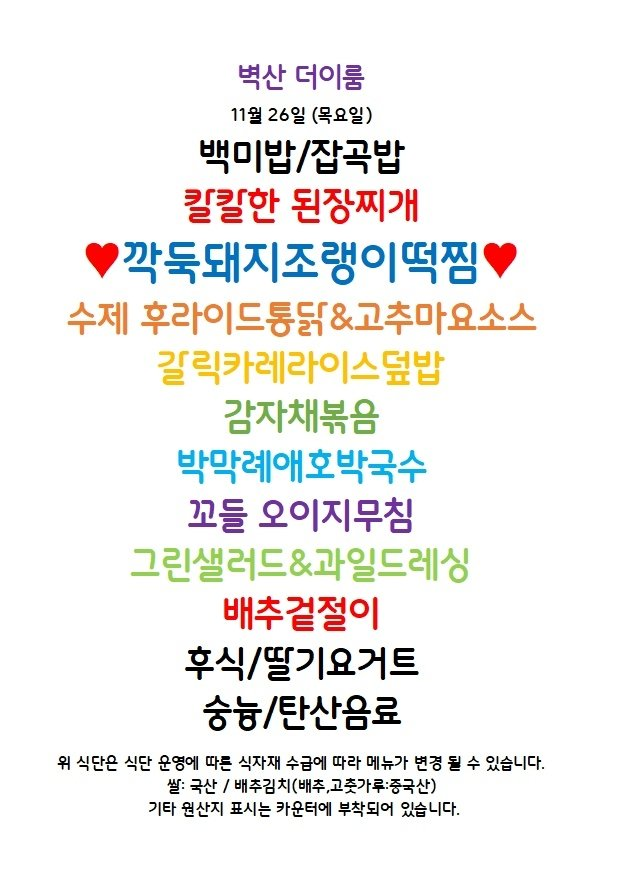
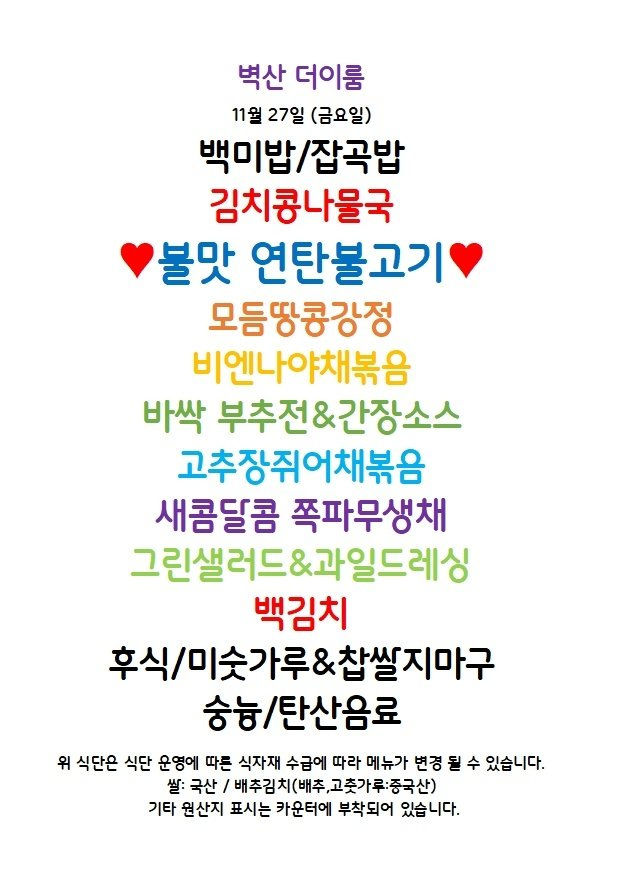
Update menu board assets

Changed region(s): [[0.0922, 0.1227, 0.8608, 0.8284], [0.0922, 0.8591, 0.8916, 0.9511], [0.3997, 0.0614, 0.5534, 0.092]]

diff --git a/guro-menu/index.html b/guro-menu/index.html
@@ -32,7 +32,7 @@
   </header>
   <section class="meta">
     <div><small>기준 날짜</small><strong>2026년 11월 27일 금요일</strong></div>
-    <div><small>최종 갱신</small><strong>2026-11-27 09:33:42</strong></div>
+    <div><small>최종 갱신</small><strong>2026-11-27 09:48:32</strong></div>
     <div><small>등록 식당</small><strong>5개</strong></div>
   </section>
   <div class="notice">공개 카카오 채널의 메뉴 이미지를 자동 수집하고 OCR로 정리합니다. 텍스트에 오타가 있을 수 있으니 식단 이미지를 함께 확인해 주세요.</div>
@@ -89,8 +89,8 @@
           <a class="channel" href="https://pf.kakao.com/_xdLzxgG" target="_blank" rel="noopener">원본 채널</a>
         </div>
         <img class="menu-image" src="./images/byucksan-theirum.png" alt="벽산더이룸 식단 이미지" loading="lazy">
-        <p class="message">최신 공개 식단 이미지의 텍스트입니다. 날짜는 원본 이미지를 확인해 주세요.</p>
-        <ul><li>백미밥/잡곡밥</li><li>킬킬안 된장찌개</li><li>수제 F2O SSS.DAOOQAA</li><li>감자채볶음</li><li>박막례애호박국수</li><li>꼬들 오이지무침</li><li>배주겉절이</li><li>후식/딸기요거트</li><li>숭늉/탄산음료</li><li>Wi: 국산 / HAA (WHA DS7R-ZAAN)</li><li>기타 원산지 표시는 카운터에 부착되어 있습니다</li></ul>
+        
+        <ul><li>백미밥/잡곡밥</li><li>김치콩나물국</li><li>Ven 연탄불고기</li><li>모듬땅콩강정</li><li>UP 부추전&amp;간장소스</li><li>고추장쥐어채볶음</li><li>새콤딜콤 쪽파무생채</li><li>백김치</li><li>숭늉/탄산음료</li><li>A: 국산 / HAA (HA, DE7RSRA</li><li>기타 원산지 표시는 카운터에 부착되어 있습니다</li></ul>
       </article>
 
       <article class="restaurant-card">

diff --git a/menu-today/index.html b/menu-today/index.html
@@ -209,7 +209,7 @@
 
     <section class="meta-bar">
       <div class="meta-card"><div class="meta-label">기준 날짜</div><div class="meta-value">2026년 11월 27일 금요일</div></div>
-      <div class="meta-card"><div class="meta-label">최종 가져온 시간</div><div class="meta-value">2026-11-27 09:33:30</div></div>
+      <div class="meta-card"><div class="meta-label">최종 가져온 시간</div><div class="meta-value">2026-11-27 09:48:21</div></div>
       <div class="meta-card"><div class="meta-label">확인 완료</div><div class="meta-value">9개 식당</div></div>
       <div class="meta-card"><div class="meta-label">준비중</div><div class="meta-value">3개 채널</div></div>
     </section>
@@ -265,7 +265,7 @@
             <div class="sub">가산비즈니스센터</div>
           </div>
         </div>
-        <div class="menu-inline-image"><img src="./images/raonfood.png" alt="구내식당라온푸드 식단 이미지"></div><ul><li>김밥볶음밥</li><li>준전닭갈</li><li>고구마지즈돈까스 / 브라운</li><li>백순대마재볶음</li><li>모듬콤소림</li><li>숙주나물무침</li><li>샐러드 &amp; 드레싱</li><li>여크수바으</li><li>져다가</li><li>백순대매재볶음</li></ul>
+        <div class="menu-inline-image"><img src="./images/raonfood.png" alt="구내식당라온푸드 식단 이미지"></div><ul><li>김밥볶음밥</li><li>준전닭갈</li><li>고구마지즈돈까스 / 브라운</li><li>백순대마재볶음</li><li>모듬콤소림</li><li>숙주나물 무침</li><li>샐러드 &amp; 드레싱</li><li>여크수바으</li><li>져다가</li><li>백순대매재볶음</li></ul>
       </article>
 
       <article class="restaurant-card">
